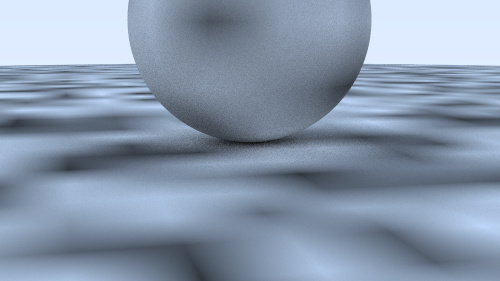
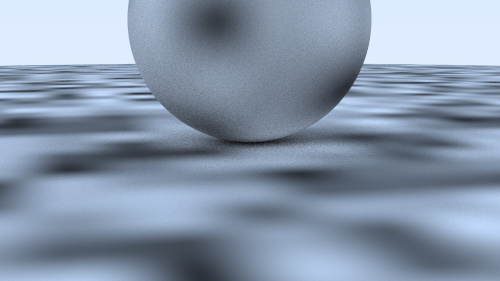
Add hermit's cubic interpolation.

diff --git a/src/perlin.h b/src/perlin.h
@@ -26,6 +26,9 @@ public:
         auto u = p.x() - floor(p.x());
         auto v = p.y() - floor(p.y());
         auto w = p.z() - floor(p.z());
+        u = u * u * (3 - 2 * u);
+        v = v * v * (3 - 2 * v);
+        w = w * w * (3 - 2 * w);
 
         auto i = static_cast<int>(floor(p.x()));
         auto j = static_cast<int>(floor(p.y()));
